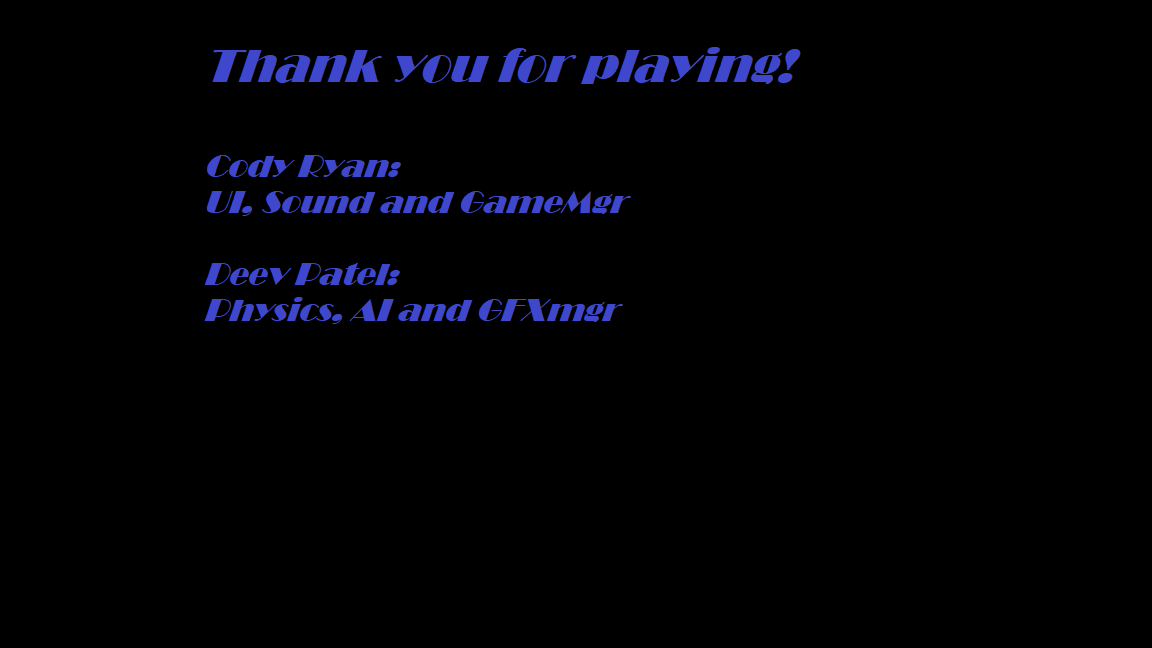
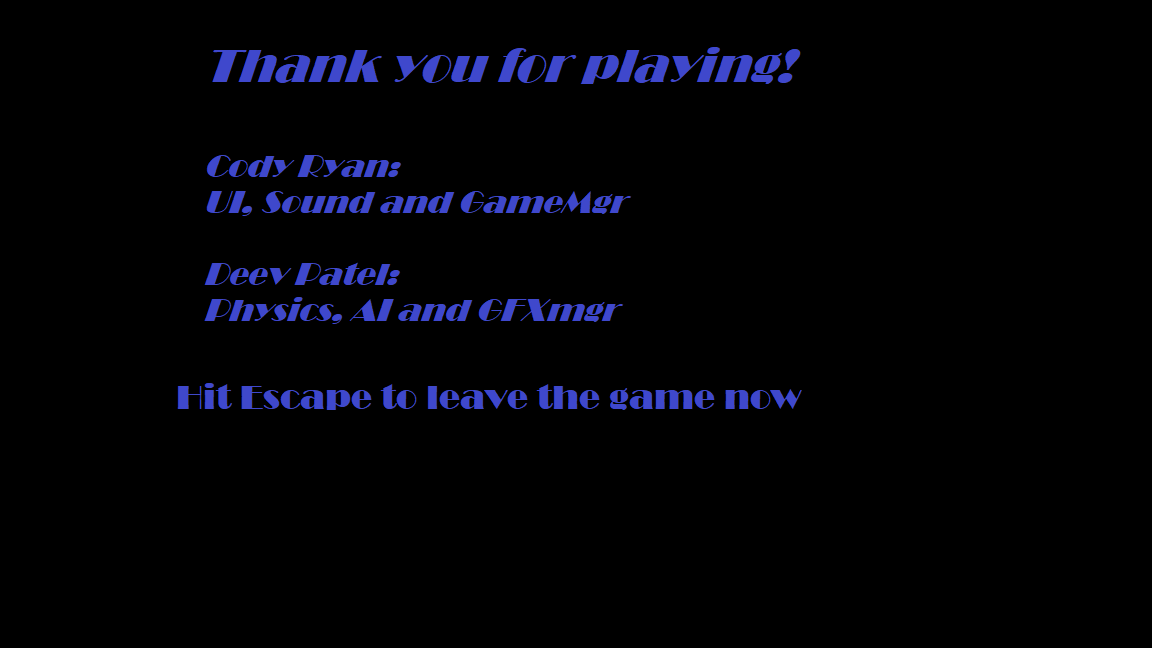
last UI mods

Changed region(s): [[0.1562, 0.5864, 0.6875, 0.6481]]

diff --git a/src/GameMgr.cpp b/src/GameMgr.cpp
@@ -56,7 +56,7 @@ void GameMgr::Tick(float dt) {
 	//std::cout << m_plane->GetYaw() << "|" << m_plane->GetPitch() << "|" << m_plane->GetRoll() << std::endl;
 	//std::cout << x << "," << y << "," << z << std::endl;
 
-	std::cout << "Enemies Following: " << m_enemies_following << std::endl;
+	//std::cout << "Enemies Following: " << m_enemies_following << std::endl;
 }
 
 void GameMgr::Stop(void) {
@@ -150,21 +150,19 @@ void GameMgr::CrashPlane(void) {
 
 void GameMgr::WinLevel(void) {
 	std::cout << "WON LEVEL" << std::endl;
-
+	m_engine->GetUIMgr()->ShowBackdrop();
 	m_engine->GetUIMgr()->GetTrayMgr()->showBackdrop("levelcomplete/UI");
 
 	if (++m_levels_won > 2) {
 		m_engine->GetUIMgr()->ShowBackdrop();
-		// needs a pauser
-		m_engine->StopRunning();
-	} else {
-		m_engine->GetUIMgr()->GetTrayMgr()->showBackdrop("Credits/UI");
 		m_engine->GetSoundMgr()->StopAllAudio();
 		m_engine->GetSoundMgr()->PlayAudio(m_outro_sound);
-		//m_engine->StopRunning();
+		m_engine->GetUIMgr()->GetTrayMgr()->hideTrays();
+		m_engine->GetUIMgr()->GetTrayMgr()->showBackdrop("Credits/UI");
+	} else {
+		ResetLevel();
 	}
 
-	ResetLevel();
 }
 
 void GameMgr::LoseLevel(void) {
@@ -175,7 +173,7 @@ void GameMgr::LoseLevel(void) {
 	m_engine->GetUIMgr()->GetRestartButton()->show();
 
 	m_engine->GetUIMgr()->GetTrayMgr()->moveWidgetToTray(m_engine->GetUIMgr()->GetRestartButton(), OgreBites::TL_BOTTOMRIGHT);
-//m_engine->GetUIMgr()->GetRestartButton()->getOverlayElement()->setPosition(0.8,0.8);
+
 
 }
 
@@ -293,7 +291,7 @@ void GameMgr::MakePlaneMain(int speed) {
 	m_engine->GetEntityMgr()->SelectEntity(m_engine->GetEntityMgr()->GetEntityCount() - 1);	//sets selection
 
 	m_plane->SetSpeedDesired(speed);
-//m_camera_following = m_plane;
+m_camera_following = m_plane;
 }
 
 void GameMgr::MakeEnemies(int level) {
@@ -443,11 +441,10 @@ void GameMgr::RemoveDeadEntities(void) {
 		if (!(*i)->IsAlive()) {
 			m_engine->GetEntityMgr()->DeleteEntity(*i);
 			i = m_enemies.erase(i);
-			m_engine->GetUIMgr()->GetTrayMgr()->hideBackdrop();
 		}
 	}
 
-	if (m_enemies.empty())
+	if (m_enemies.empty() && m_levels_won <= 2)
 		WinLevel();
 }
 

diff --git a/src/UIMgr.cpp b/src/UIMgr.cpp
@@ -40,15 +40,15 @@ void UIMgr::LoadLevel(void) {
 	m_levels = m_tray_mgr->createLabel(OgreBites::TL_BOTTOMLEFT, "LevelsWonCounter", "Levels won: ");
 	m_tray_mgr->getCursorImage()->hide();
 
-	m_engine->GetSoundMgr()->LoadAudio(m_intro_music, m_intro_music);
-	m_engine->GetSoundMgr()->LoadAudio(m_flight_sound, m_flight_sound);
+	m_engine->GetSoundMgr()->LoadAudio(m_intro_music, m_intro_music, true);
+	m_engine->GetSoundMgr()->LoadAudio(m_flight_sound, m_flight_sound, true);
 
 	m_engine->GetSoundMgr()->PlayAudio(m_intro_music);
 	//m_tray_mgr->showFrameStats(OgreBites::TL_TOPRIGHT);
 }
 
 void UIMgr::Tick(float dt) {
-#if 1
+#if 0
 	static int x = 0;
 	if (++x == 1)
 		buttonHit(m_start_button);
@@ -95,7 +95,7 @@ void UIMgr::SetHealthBarPercentage(float percentage, bool accumulate) {
 
 void UIMgr::PlayFlightSound(void) {
 	m_engine->GetSoundMgr()->StopAllAudio();
-	m_engine->GetSoundMgr()->PlayAudio(m_engine->GetUIMgr()->m_flight_sound);
+	m_engine->GetSoundMgr()->PlayAudio(m_engine->GetUIMgr()->m_flight_sound,true);
 }
 
 void UIMgr::ShowBackdrop(void) {

diff --git a/src/InputMgr.cpp b/src/InputMgr.cpp
@@ -36,7 +36,7 @@ void InputMgr::Init(void) {
 #elif defined OIS_LINUX_PLATFORM
 	pl.insert(std::make_pair(std::string("x11_mouse_grab"), std::string("false")));
 	pl.insert(std::make_pair(std::string("x11_mouse_hide"), std::string("false")));
-	pl.insert(std::make_pair(std::string("x11_keyboard_grab"), std::string("false"))); //true for ECC
+	pl.insert(std::make_pair(std::string("x11_keyboard_grab"), std::string("true"))); //true for ECC
 	pl.insert(std::make_pair(std::string("XAutoRepeatOn"), std::string("true")));
 #endif
 	m_ois_mgr = OIS::InputManager::createInputSystem(pl);
